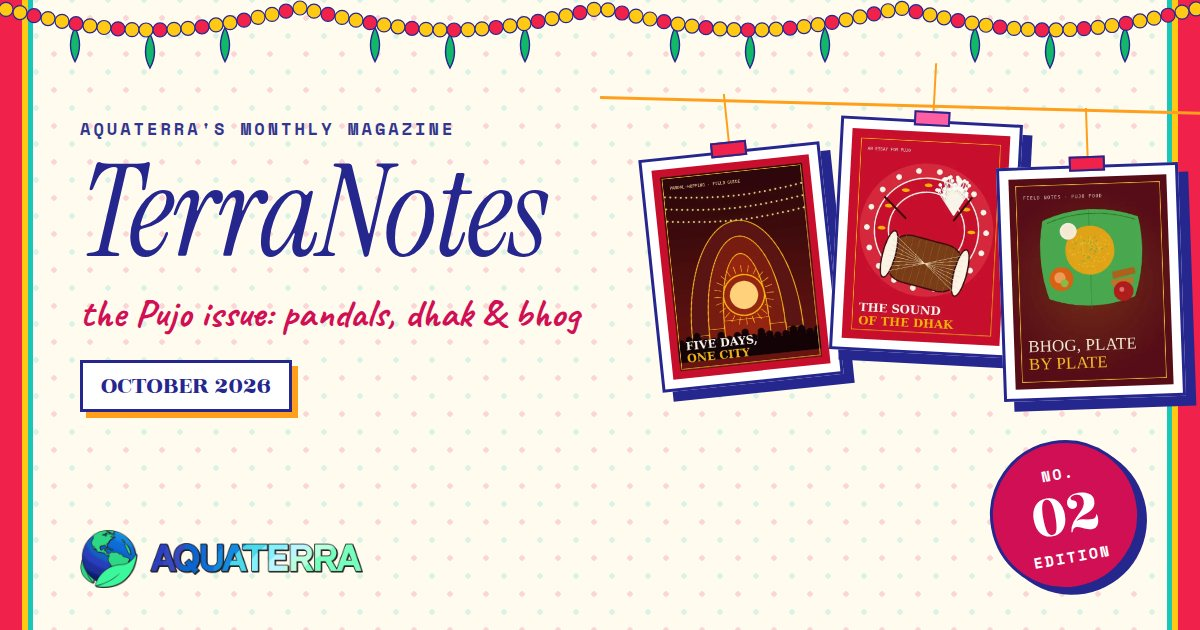
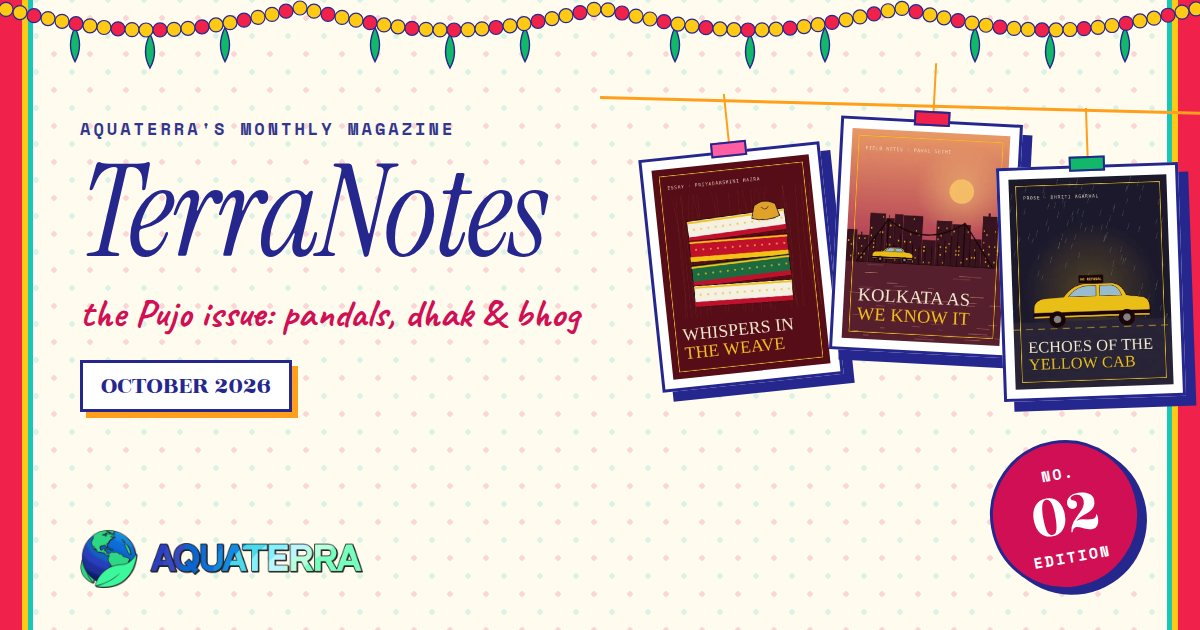
October: the writers' five articles, in place of the sample pieces
Whispers in the Weave (Priyadarshini Hazra), Kolkata As We Know It (Pahal
Sethi), Echoes of the Yellow Cab (Dhriti Agarwal), Festive season or PEAK MAIN
CHARACTER ENERGY? (Diti Shah) and Dirt beneath her feet (Rishavi Banerjee), word
for word as sent. A poem's stanzas keep their line breaks (\n in a paragraph);
new Poetry tag. Drawn stand-in covers until real ones come.

Claude-Session: https://claude.ai/code/session_01CgW7HxbCpt5fYjBJ3ADamc

Changed region(s): [[0.5242, 0.181, 0.9867, 0.6333]]

diff --git a/src/editions/oct26/articles.js b/src/editions/oct26/articles.js
@@ -3,7 +3,7 @@
 // top of src/data/articles.js. Writers' text is verbatim, typos included. Covers and photos go in
 // public/editions/oct26/articles/<slug>/.
 
-// Pujo colours, bright: hibiscus red, marigold, green, lotus pink, royal blue, violet
+// Pujo colours, bright: hibiscus red, marigold, green, lotus pink, royal blue, violet, aqua
 export const TAGS = {
   'Field notes': { color: '#F0214A', ink: '#FFFFFF' },
   Reportage: { color: '#2F6BFF', ink: '#FFFFFF' },
@@ -12,121 +12,117 @@ export const TAGS = {
   Dispatch: { color: '#FFC914', ink: '#26268F' },
   Essay: { color: '#FF5FA2', ink: '#26268F' },
   Prose: { color: '#12B76A', ink: '#26268F' },
+  Poetry: { color: '#3DDCC4', ink: '#26268F' },
   'Under Aquaterra': { color: '#FFC914', ink: '#26268F' },
 };
 
-// Five sample pieces, written to show off the Pujo look (from Aquaterra itself: no writer). Swap them for the
-// writers' articles.
+// The writers' pieces, as they sent them (a poem keeps its line breaks, \n, inside each stanza; numbered headings keep
+// their words, the page numbers them). The deks and cover descriptions are the editors'; the covers are drawn
+// stand-ins (tools/art/oct26.mjs) until real ones come.
 export const ARTICLES = [
   {
-    slug: 'pandal-hopping-field-guide',
-    tag: 'Field notes',
-    title: 'Five days, one city: a pandal-hopping field guide',
-    dek: 'how to survive the queues, the crowds and the 2 a.m. phuchka',
-    cover: '/editions/oct26/articles/pandal-hopping-field-guide/cover.jpg',
-    alt: 'a pandal lit up at night under strings of fairy lights',
-    author: null,
-    featured: true,
-    date: 'Oct 2026',
-    readTime: '4',
-    body: [
-      'For five days every October, Kolkata stops pretending to be a normal city. Roads become one-way rivers of people, the traffic police give up and start taking photos, and somewhere around Saptami everyone agrees that sleep is optional. This is our field guide to doing Pujo properly: on foot, in groups, and with a phone at 40%.',
-      { log: [['ROUTE', 'north to south'], ['PANDALS', '11'], ['STEPS', '31,402'], ['PHUCHKAS', 'too many']] },
-      { h2: 'Start before the sun goes down' },
-      'The famous pandals have queues that reach the next neighbourhood by eight. Go at five, when the light is still gold and the dhakis are only warming up. You get the idol, the lights coming on, and a pavement you can actually walk on.',
-      { h2: 'The queue is the point' },
-      'Nobody likes standing in a line for ninety minutes. But the queue is where Pujo actually happens: aunties comparing sarees, kids on shoulders, strangers sharing the same umbrella when the sky remembers it is still technically monsoon. By the time you reach the gate, you know half the line.',
-      { quote: 'Every year we say we will skip the big ones. Every year we stand in the big ones.', by: 'everyone, every year' },
-      { checklist: [['comfortable sandals', true], ['a power bank', true], ['cash for phuchka', true], ['an umbrella, just in case', false]], title: 'The Pujo bag' },
-      { h2: 'Eat like it is Navami' },
-      'Rolls, phuchka, mughlai paratha, then bhog at the para pandal because someone’s mother insists. The rule is simple: if there is a stall, there is a reason to stop.',
-      { h2: 'Going home at 4 a.m.' },
-      'At some point the city goes quiet in the strangest way: the lights still on, the roads empty, a dhak somewhere far off still going. You walk home slower than you need to. Nobody wants the night to be the last one.',
-    ],
-  },
-  {
-    slug: 'sound-of-the-dhak',
-    tag: 'Essay',
-    title: 'The sound of the dhak',
-    dek: 'how one drum tells a whole city that autumn is here',
-    cover: '/editions/oct26/articles/sound-of-the-dhak/cover.jpg',
-    alt: 'a dhak drum with its white kash-flower plume on a red alpana',
-    author: null,
+    slug: "whispers-in-the-weave",
+    tag: "Essay",
+    title: "Whispers in the Weave",
+    dek: "on borrowed sarees, the family tailor and the culture folded in our cupboards",
+    cover: '/editions/oct26/articles/whispers-in-the-weave/cover.jpg',
+    alt: "a folded red-bordered saree and a hand-embroidered blouse in an open cupboard",
+    author: "Priyadarshini Hazra",
     date: 'Oct 2026',
     readTime: '3',
     body: [
-      'Before the pandals go up, before the lights, before the first new clothes are unfolded, there is the sound. Somewhere in the lane, someone tries out a dhak, and the whole neighbourhood looks up. Pujo has not started yet. But now everyone knows it will.',
-      { h2: 'A drum with a feather crown' },
-      'The dhak is huge, slung from the shoulder and played with two thin sticks. On top sits a plume of white kash flowers, the same grass that turns the riverbanks white in autumn. It looks less like an instrument and more like a messenger.',
-      { quote: 'You do not hear the dhak. You feel it in your ribs first.', by: 'a dhaki at a para pandal' },
-      { then: [['Mahalaya on the radio at 4 a.m.', 'Mahalaya on a phone at 4 a.m.'], ['dhakis walking in from the villages', 'dhakis walking in from the villages'], ['dancing with the dhunuchi', 'filming the dhunuchi dance'], ['the beat that means “Pujo”', 'the same beat']], title: 'What changed, what didn’t' },
-      { h2: 'The last beat' },
-      'On Dashami the rhythm changes. It gets faster, louder, almost angry, as the idols are carried to the river. And then it stops, and the city is just a city again, waiting a whole year to hear it.',
+      "Culture.",
+      "An extremely broad term, in my opinion,  which those using it very rarely seem to understand the meaning of.  I believe that when the word ‘culture’ is used, beliefs should come to mind. Traditions. Values. Characteristics. Something that can be inherited, celebrated, passed on.",
+      "For as far as history allows us to look back upon, clothing has stood firmly as one of the most loved, used, and accessible forms of Indian culture. This leads us to the question: why is this the case? There’s so many other forms of art and media, but very few have held their position as much as fabrics have.",
+      "To simply put it, it is reusable in the most delicate way possible. Wearing the same saree on Maha Ashtami that your mom did when she was 15, while you yourself are 15. Borrowing your sister’s hand-emboridered blouse because you can't find one that fits you perfectly. Going to the same tailor for your fall and pico fitting that your entire extended family goes to. These small, unnoticed traditions, habits: they fall into place for us, and we don’t really think much about them. We don’t consider that your mom, even at 15, saved her saree that year for her future daughter, without even knowing if she’d ever have one to begin with. Your sister letting you take that one blouse that she argued with her tailor bhaiya for, for 3 months straight. That one aunt you can’t stand going to the ends of the Earth to find at least one local tailoring shop that can do any last minute alterations anybody might need. We don’t think much about these things, do we?",
+      "The places these same fabrics have been, the Kalamkari designing done on them, straight from Telengana, or the Jamdani weaving done on them in the rural areas of Burdhaman. The people who wore them before we did, the conversations that they’ve been a part of, the fights that took place at the dry cleaners’, trying to get stains out of them. Every piece of traditional clothing that we borrow has something behind it. But behind everything, there’s the owner’s love. Could be that of your mom. Or your great-grandmother who you might not have even met. But it’s there. It’s there, and it’s what gives you that glow when you wear it. The perfect fits, the photos clicked on your dad’s old camera, the sindoor stain; it adds to the heritage. It adds to the culture. It adds to the stories that the garment is going to hold when yet again, it is passed on.",
+      "At the start, I said that “culture” should bring to mind beliefs, traditions, values, characteristics: something inherited, celebrated, passed on. That is why clothing has lasted so long in India. Fabric holds the small, unnoticed habits: the same tailor, the same festival every year, the same folds pressed in the same places. It holds the warmth of a family that bickers over every stitch and still hands over its finest pieces anyway. Culture was never kept in a museum. It was folded in our cupboards the whole time.",
     ],
   },
   {
-    slug: 'bhog-plate-by-plate',
-    tag: 'Field notes',
-    title: 'Bhog, plate by plate',
-    dek: 'khichuri, labra, beguni and the aunty with the big ladle',
-    cover: '/editions/oct26/articles/bhog-plate-by-plate/cover.jpg',
-    alt: 'a banana leaf with yellow khichuri, labra, beguni and a sweet',
-    author: null,
+    slug: "kolkata-as-we-know-it",
+    tag: "Field notes",
+    title: "Kolkata As We Know It",
+    dek: "the city of joy, on a teenager’s map",
+    cover: '/editions/oct26/articles/kolkata-as-we-know-it/cover.jpg',
+    alt: "the Howrah Bridge over the river, with a yellow taxi below",
+    author: "Pahal Sethi",
     date: 'Oct 2026',
     readTime: '3',
     body: [
-      'Bhog is the meal the goddess eats first, and then everyone else. At the para pandal it arrives at around one in the afternoon, served on leaf plates by volunteers who have been awake since five, and it is the only food all year that nobody complains about.',
-      { h2: 'The plate, from the top' },
-      { numbers: [['khichuri', '1 big ladle'], ['labra', '1 spoon'], ['beguni', '2 if lucky'], ['chutney', 'a lot'], ['payesh', '1 cup']], title: 'One plate of bhog' },
-      'Khichuri first: rice and moong dal cooked together until they give up and become one thing, yellow with turmeric and shining with ghee. Then labra, a mixed vegetable dish that is different in every house and perfect in every house. Then the crisp, hot beguni, which disappears before the chutney arrives.',
-      { quote: 'Ar ektu nao. Just a little more.', by: 'every aunty with a ladle' },
-      { h2: 'The line that moves' },
-      'The bhog line is the friendliest queue of the whole Pujo. Nobody pushes, because there is always more. Kids carry plates for grandparents. Strangers sit on the same durrie and pass the salt without being asked.',
-      { checklist: [['eat with your hands', true], ['save room for payesh', true], ['say no to a second plate', false]], title: 'Bhog rules' },
-      'By three the pots are scraped clean and the volunteers finally sit down to eat. That last plate, eaten tired and happy, is the best one of the day.',
+      "You don’t really need an introduction to Kolkata. It is known for its rich history, beautiful architecture, literature and, of course, its love for food. But ask a teenager what Kolkata means to them, and the response might be a little different. It is not just the Victoria Memorial or the Howrah Bridge. It is the city we grow up in, the places we visit with friends, the food we crave after school, and the traditions that somehow become a part of us.",
+      "For teenagers, Kolkata has its own little map. It includes Park Street for its lively atmosphere, South City Mall for the movies, and the Maidan for those rare days when we feel like doing something other than scrolling through our phones. South City Mall, is infact quite the hangout place, where a simple plan to window-shop somehow turns into hours of walking around, eating and talking about absolutely everything. And there’s always someone from your school playing in the arcade. So sometimes, the best plans are no plans at all. Just meeting friends, taking endless pictures and making ordinary afternoons memorable.",
+      "Of course, no description of Kolkata is complete without its food. From puchkas and jhalmuri at roadside stalls to kathi rolls and a plate of biryani, the city knows how to keep us happy. And then there is mishti doi and rosogolla, because no Bengali celebration feels quite complete without something sweet. Somehow, even the simplest street-food outing becomes an experience worth remembering.",
+      "What makes the city of joy, well, truly joyful, is how effortlessly its traditions fit into everyday life. Durga Puja is perhaps the best example. For a few days, the entire city seems to come alive with lights, music, new clothes and pandal-hopping that continues late into the night. People of all ages step out to celebrate, and even the busiest streets feel different. It is one of those times when being a part of Kolkata feels especially exciting.",
+      "But beyond its famous landmarks and festivals, Kolkata has a chic personality of its own. It’s a little chaotic, occasionally exhausting, and sometimes frustratingly slow.  And Afterall, everyone here knows everyone somehow. Yet, there is a warmth to it that is difficult to explain to someone who has never lived here.",
+      "Perhaps that is what makes Kolkata ‘our city’. It isn’t perfect, and it doesn’t have to be. It is found in familiar streets, shared plates of food, spontaneous plans and memories we do not realise we are then making. This is Kolkata as we know it. It’s not just the city of joy, but the city we call our home.",
     ],
   },
   {
-    slug: 'before-the-colour',
-    tag: 'Reportage',
-    title: 'Before the colour',
-    dek: 'a morning in Kumartuli, where the goddesses are still made of clay',
-    cover: '/editions/oct26/articles/before-the-colour/cover.jpg',
-    alt: 'unpainted clay faces of the goddess drying in a Kumartuli workshop',
-    author: null,
+    slug: "echoes-of-the-yellow-cab",
+    tag: "Prose",
+    title: "Echoes of the Yellow Cab",
+    dek: "Kolkata’s Moving Time Capsule",
+    cover: '/editions/oct26/articles/echoes-of-the-yellow-cab/cover.jpg',
+    alt: "a yellow Kolkata taxi on a rainy street, its NO REFUSAL sign lit",
+    author: "Dhriti Agarwal",
     date: 'Oct 2026',
-    readTime: '4',
+    readTime: '2',
     body: [
-      'Kumartuli is a maze of narrow lanes in north Kolkata where most of the city’s Durga idols are made. In September it is the busiest place on earth that nobody is in a hurry to leave. Every doorway has a goddess in it, and almost none of them have their colour yet.',
-      { log: [['PLACE', 'Kumartuli'], ['WORKSHOPS', 'hundreds'], ['MATERIAL', 'straw, clay, river mud'], ['WEEKS TO PUJO', '3']] },
-      { h2: 'Straw first' },
-      'Every idol starts as a skeleton of bamboo and straw, tied by hand into the shape of arms, a body, a lion. Then comes the clay, mixed with river mud from the Hooghly, pressed on in layers and left to dry in whatever sun September offers.',
-      { loop: ['tie the straw', 'press the clay', 'wait for the sun', 'smooth the cracks'], title: 'The Kumartuli loop' },
-      { h2: 'Faces in rows' },
-      'The faces are made separately, from moulds that families have used for generations. Walk past one workshop and you see twenty of them lined up on a shelf, grey and calm, waiting. The eyes come last of all, painted on the morning of Mahalaya.',
-      { quote: 'People see her for five days. We see her for five months.', by: 'an artisan in Kumartuli' },
-      'When the trucks finally come to carry the idols away, the lanes go strangely empty. Then the artisans sweep up, and start on next year’s straw.',
+      "What is that one thing that eternalizes Kolkata? Is it the sweet and soft roshogulla? Or the old and musty trams? These might differentiate Kolkata, but nothing beats the iconic yellow taxi roaming the roads of Kolkata. You see, those trams are now just collecting dust, while the roshogullas are canned and transported throughout the world, but those yellow taxis are still roaming the roads of Kolkata, with their worn-out seats, with their stick shifts, and with their broken fare meters. The eternal taxis still ride down our roads, still getting stopped by that schoolgirl and her mother, by that tired grandmother who just came from the mandir, and by that tired employee who is sick of his 9-to-5 job. Those drivers are still hearing the mother scolding her kid for not eating her tiffin or that employee calling his mom or that teen who is on the phone with her best friend. The driver is still aware of those secrets spilt and of all those tears shed, yet the only person oblivious is us. While we are fighting over the fare in front of our building, hurrying to show our dads our shopping bags, there is a little girl at home waiting to see hers. We fail to see his tired eyes or how he roams the streets in his only source of income searching to take someone home just so that he can bring food into his. ",
+      "And somehow these eternal taxis are always there when you don’t need them and never when in dire need of, with their fake ‘NO REFUSALS’ and 'AC CAB,' rolling windows, and the iconic yellow, brightening the roads amidst their blacks and greys...waiting to be seen…still diving through our roads and leaving a burst of nostalgia behind.",
     ],
   },
   {
-    slug: 'red-on-red',
-    tag: 'Essay',
-    title: 'Red on red',
-    dek: 'sindoor khela, and why the last day is the loudest',
-    cover: '/editions/oct26/articles/red-on-red/cover.jpg',
-    alt: 'hands with red and white bangles in a cloud of red sindoor',
-    author: null,
+    slug: "festive-season-or-peak-main-character-energy",
+    tag: "Dispatch",
+    title: "Festive season or PEAK MAIN CHARACTER ENERGY?",
+    dek: "how Gen Z does Navratri, Durga Puja and Diwali",
+    cover: '/editions/oct26/articles/festive-season-or-peak-main-character-energy/cover.jpg',
+    alt: "a phone taking a festive selfie in front of a lit pandal, with sparklers",
+    author: "Diti Shah",
     date: 'Oct 2026',
     readTime: '3',
     body: [
-      'On the morning of Dashami, the goddess is about to leave. The women of the para line up in red-bordered white sarees, and before she goes, they say goodbye the only way that feels big enough: they cover her, and each other, in red.',
-      { h2: 'First the goddess' },
-      'It starts gently. Sindoor is touched to the goddess’s forehead, then sweets to her lips, a little betel leaf to her cheek. Some people cry here. It is fine. Everyone pretends not to notice.',
-      { h2: 'Then everyone else' },
-      'And then it becomes a game. Sindoor on foreheads, cheeks, hair, sarees, on the photographer who got too close. Within ten minutes nobody’s face is the colour it was. The dhak speeds up. Someone starts a dance.',
-      { quote: 'Ashche bochor abar hobe. It will happen again next year.', by: 'the whole city, at once' },
-      { then: [['only married women played', 'more and more, everyone joins in'], ['the red came off in a day', 'the red comes off in three'], ['photos in an album', 'photos everywhere']], title: 'What changed, what didn’t' },
-      'By evening the idols are carried to the river. The red on our faces has faded to pink. It stays in your hair for days, though, a little reminder that Pujo really did happen, and that it will again.',
+      "If your calendar from September to November isn’t just a non-stop series of fit checks, late-night chaos, and aggressive sweet consumption, are you even living in India?",
+      "Oh no, no, no—festive season isn’t just a cultural thing anymore. Unless you’re coming back home at 2 AM with a drained social battery and a massive headache, you’re probably doing it wrong. Let’s break down how Gen Z navigates the biggest Indian festivals, because low-key, it’s a full-time job.",
+      { h2: "Navratri & Durga Puja: The Original 9-Day Rave" },
+      "Before we even get into the festive madness, let’s talk about the relentless preparation. We scroll through every online app just to find the perfect Garba outfit that will look good not only on us, but also on our Instagram stories. It’s an elite level of pre-Puja shopping—endless small site visits, doom-scrolling on Myntra, Amazon, Ajio, etc., just for that perfect red and white saree so Durga Maa can see us looking our absolute best.",
+      "And we haven't even mentioned the biggest headache yet: trying to snag Garba passes for the whole friend group.",
+      "Now, let's talk about the actual days. Before EDM festivals, there was Garba and Pandal Hopping.",
+      "The Vibe: High-voltage energy, insane drip, and core memories with the squad.",
+      "Navratri Reality: Spending three weeks learning step-by-step reels, only to do the exact same two-step circle all night. But hey, the Chaniya Choli outfit hit 10k views, so total win.",
+      "Durga Puja Reality: Pandal hopping from 11 PM to 4 AM, surviving entirely on Kolkata Biryani, Puchka, and chaat from random stalls. Powered by pure adrenaline, your feet are dead to the soul, but the Instagram story aesthetic is unmatchable.",
+      "Pro Tip: If your fit doesn't require at least three safety pins and a prayer, you're not doing Navratri right!!",
+      { h2: "Diwali: Cozy SZN Meets Aggressive Aesthetic Lighting" },
+      "One of everyone's absolute favorite holidays is Diwali. Here is how the expectation vs. reality breaks down:",
+      "1.Relaxing family time with traditional sweets while actually spending 45 minutes posing with a diya, trying desperately not to set your dupatta on fire.",
+      "2.Minimal, aesthetic home decor while fairy lights are literally everywhere because everything must look like a Pinterest board (we didn't spend hours curation-scrolling to NOT use those ideas).",
+      "3.Card parties with chill vibes while getting dangerously competitive over Teen Patti for ₹10 stakes.",
+      "Then comes,",
+      "The Fit Check: Wearing a heavy traditional outfit solely for the mandatory family picture, then immediately changing into sweatpants the second the guests leave.",
+      "The Food: \"I need to cut back on sugar\" lasts until you're gulping down Kaju Katli with zero self-control and zero regrets.",
+      { h2: "The Gen Z Festive Playbook" },
+      "Repurposing Fits: Wearing the same Kurta to three different events, but swapping out the dupatta or jacket so no one notices on the feed.",
+      "Dodging the Relative Interrogation: Escaping the endless \"Ghar kab aoge?\" and career/marriage grilling by staying strategically stationed near the food table.",
+      "The Midnight Mom Texts: Being out all night doing Garba (maybe with someone special) while dodging frantic texts from your mom asking \"Where are you? What are you doing? Who are you with?!\"",
+      "Digital Celebrations: Blasting standard WhatsApp stickers to distant relatives while saving custom, high-effort memes for the inner circle.",
+      "Bottom Line: Indian festivals are messy, loud, exhausting, and expensive—and we wouldn't trade them for anything. Stay hydrated, keep your power banks charged, and let the festive chaos reign!",
+    ],
+  },
+  {
+    slug: "dirt-beneath-her-feet",
+    tag: "Poetry",
+    title: "Dirt beneath her feet",
+    dek: "a poem on the clay, the goddess and the women behind the door",
+    cover: '/editions/oct26/articles/dirt-beneath-her-feet/cover.jpg',
+    alt: "a clay goddess face being shaped by hand, clay dust at her feet",
+    author: "Rishavi Banerjee",
+    date: 'Oct 2026',
+    readTime: '1',
+    body: [
+      "Clay was gathered from the abandoned streets\nDoorsteps filled with shameful allegations ,\nHands that would never hold them in prayer,\nIs moulding a goddess from the dust lying there.",
+      "It was called divine ,\nMade the goddess shine ,\nBut woman behind that Door ,\nWhat was she, if not malign .\nThe dhak beats louder\nHER eye echoes power\nYet today's women stay in Cower\nWhat is that makes one divine\nWhile another is condemned by society's line\nWe call the soil sacred when it carries your name\nBut the women who gave it we see them as shame .\nFor no women is dirt, no women shame\nNo woman deserves to be blamed for her faith\nAnd if this Clay is known as sacred then let this be known as ,\nThe mother we worship you through\nMust not be left alone.",
     ],
   },
 ];

diff --git a/src/data/articles.js b/src/data/articles.js
@@ -15,7 +15,8 @@ import { ALL_ARTICLES, editionData } from '../editions/index.js';
 //   date:     the edition's month, e.g. 'Sep 2026'
 //   readTime: minutes, e.g. '6'
 //   body:     the article, top to bottom. Each item is one block:
-//     'Some text.'                                         paragraph (the first one gets the drop cap)
+//     'Some text.'                                         paragraph (the first one gets the drop cap; a \n inside
+//                                                          breaks the line there, for a poem's stanza)
 //     { h2: 'Heading' }                                    section heading
 //     { quote: 'The line.', by: 'who said it' }            pull quote
 //     { photo: '/editions/…/x.jpg', caption: '' }          pinned photo

diff --git a/src/shared/ArticleBody.jsx b/src/shared/ArticleBody.jsx
@@ -14,7 +14,7 @@ const HEAD = { fontFamily: FONT.head, textTransform: "uppercase", lineHeight: "1
 const cap = (t) => t.match(/^[“‘"'(]*./u)[0]; // the drop cap: first letter, with any opening quote mark before it
 
 function Block({ b, first, part, a, tag, web }) {
-  const para = { fontFamily: FONT.read, color: "var(--text)", margin: "0", ...P[web ? 'web' : 'phone'] };
+  const para = { fontFamily: FONT.read, color: "var(--text)", margin: "0", ...P[web ? 'web' : 'phone'], ...(typeof b === 'string' && b.includes('\n') && { whiteSpace: "pre-line" }) }; // a poem's stanza keeps its lines
   if (typeof b === 'string') {
     if (!first) return <p style={para}>{b}</p>;
     const draft = b.startsWith('['); // still a [placeholder]: the drop cap is the title's first letter

diff --git a/build/staticCopy.js b/build/staticCopy.js
@@ -24,7 +24,7 @@ const articleList = (e) => `<ul>${e.articles.map((a) => `<li><a href="${at(artic
 
 export function articleHtml(a) {
   const body = a.body.map((b) => {
-    if (typeof b === 'string') return `<p>${esc(b)}</p>`;
+    if (typeof b === 'string') return `<p>${esc(b).replace(/\n/g, '<br>')}</p>`; // a poem's lines
     if (b.h2) return `<h2>${esc(b.h2)}</h2>`;
     if (b.projects) return `<ol>${b.projects.map((x) => `<li><strong>${esc(x.name)}</strong>, ${esc(x.what)} (${esc(x.meta)})</li>`).join('')}</ol>`;
     return '';

diff --git a/CLAUDE.md b/CLAUDE.md
@@ -218,8 +218,8 @@ alta-red alpana border runs round the photo wall (`Alpana.jsx`, `WALL_DECOR`), t
 and its A/B/C marks a dhunuchi, a lantern and a firework (`Dhunuchi.jsx`, `WORDS_ART`), two dhakis drum by the team
 legend (`DhakPlayers.jsx`, `TEAM_NOTE`), and Buddy's games are re-dressed (`games.js`, `GAME_SKIN`; their names in
 `data/games.js`): Snake is Durga Maa chasing demon faces with a marigold garland for a tail, Fling a bow and arrow at
-demon faces. The illustrations' own colours are in its `look.js` `art`. Pujo, Diwali and festive-feeling words; five
-sample articles and eight photos (seven of them drawn stand-ins). A new edition starts from a copy of the newest look and changes the values; its own CSS and
+demon faces. The illustrations' own colours are in its `look.js` `art`. Pujo, Diwali and festive-feeling words; the
+writers' five articles (drawn stand-in covers) and eight photos (seven of them drawn stand-ins). A new edition starts from a copy of the newest look and changes the values; its own CSS and
 doodles are registered in `src/editions/pages.js` (`EDITION_CSS`, `DECOR`, `TEAM_NOTE` for a secret by the team legend: under it on web, beside it on phones; `HANGERS`, `WALL_DECOR`, `WORDS_ART` and `GAME_SKIN` to dress the article wire, the photo wall, the words game and Buddy's games; `LAYOUT` switches on newer layouts of the shared home sections per edition, so older ones keep theirs: copy the newest edition's entry).
 Use the variables, nothing else (the look lists a few more, for the photo wall, dark panels and details).
 
